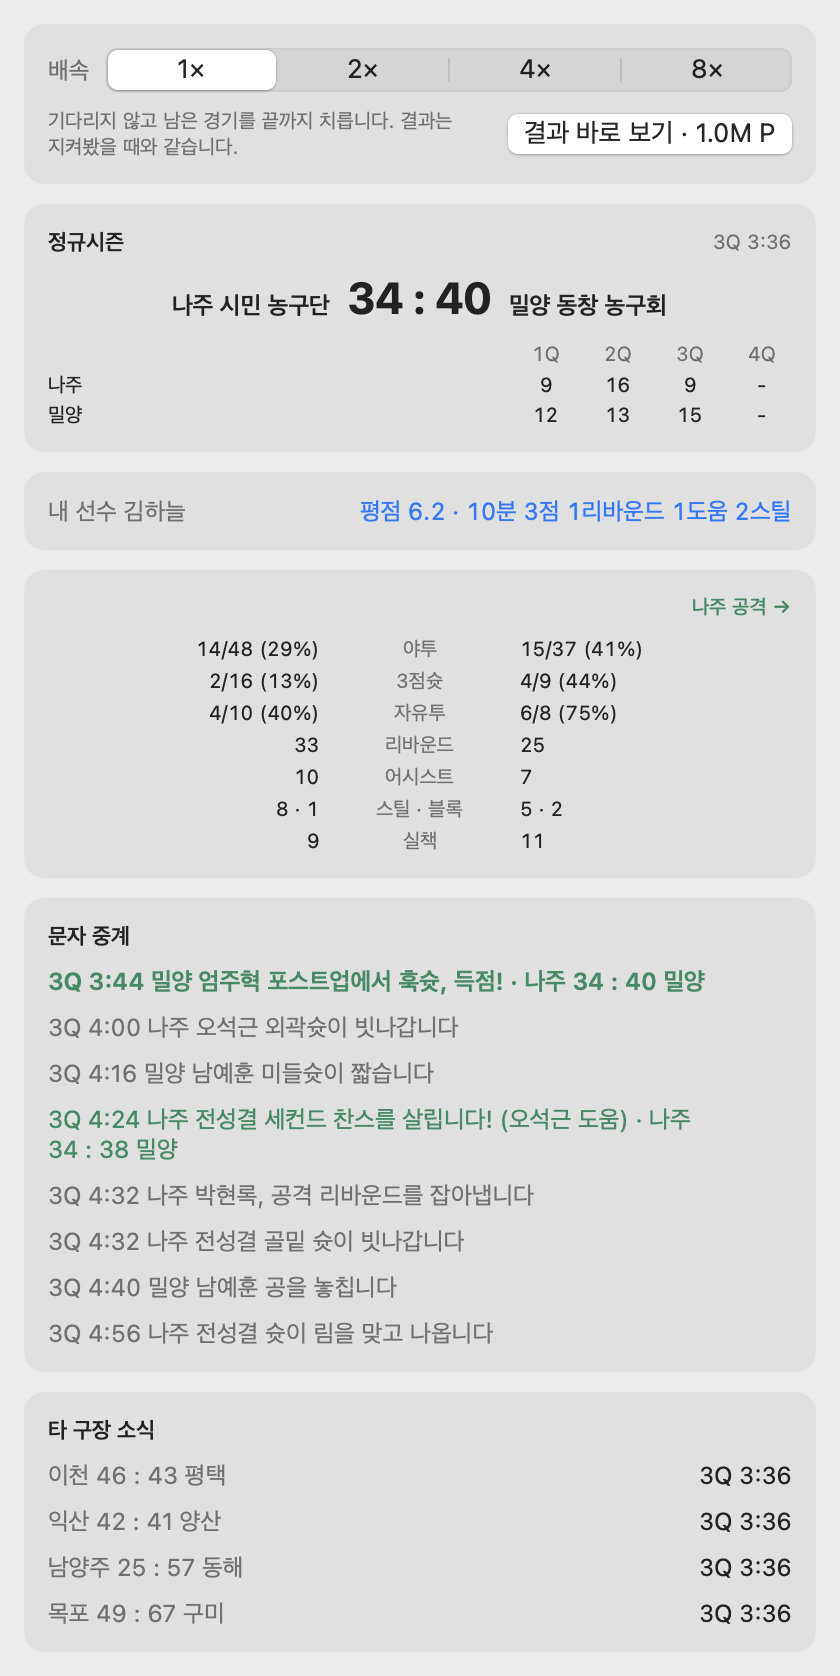
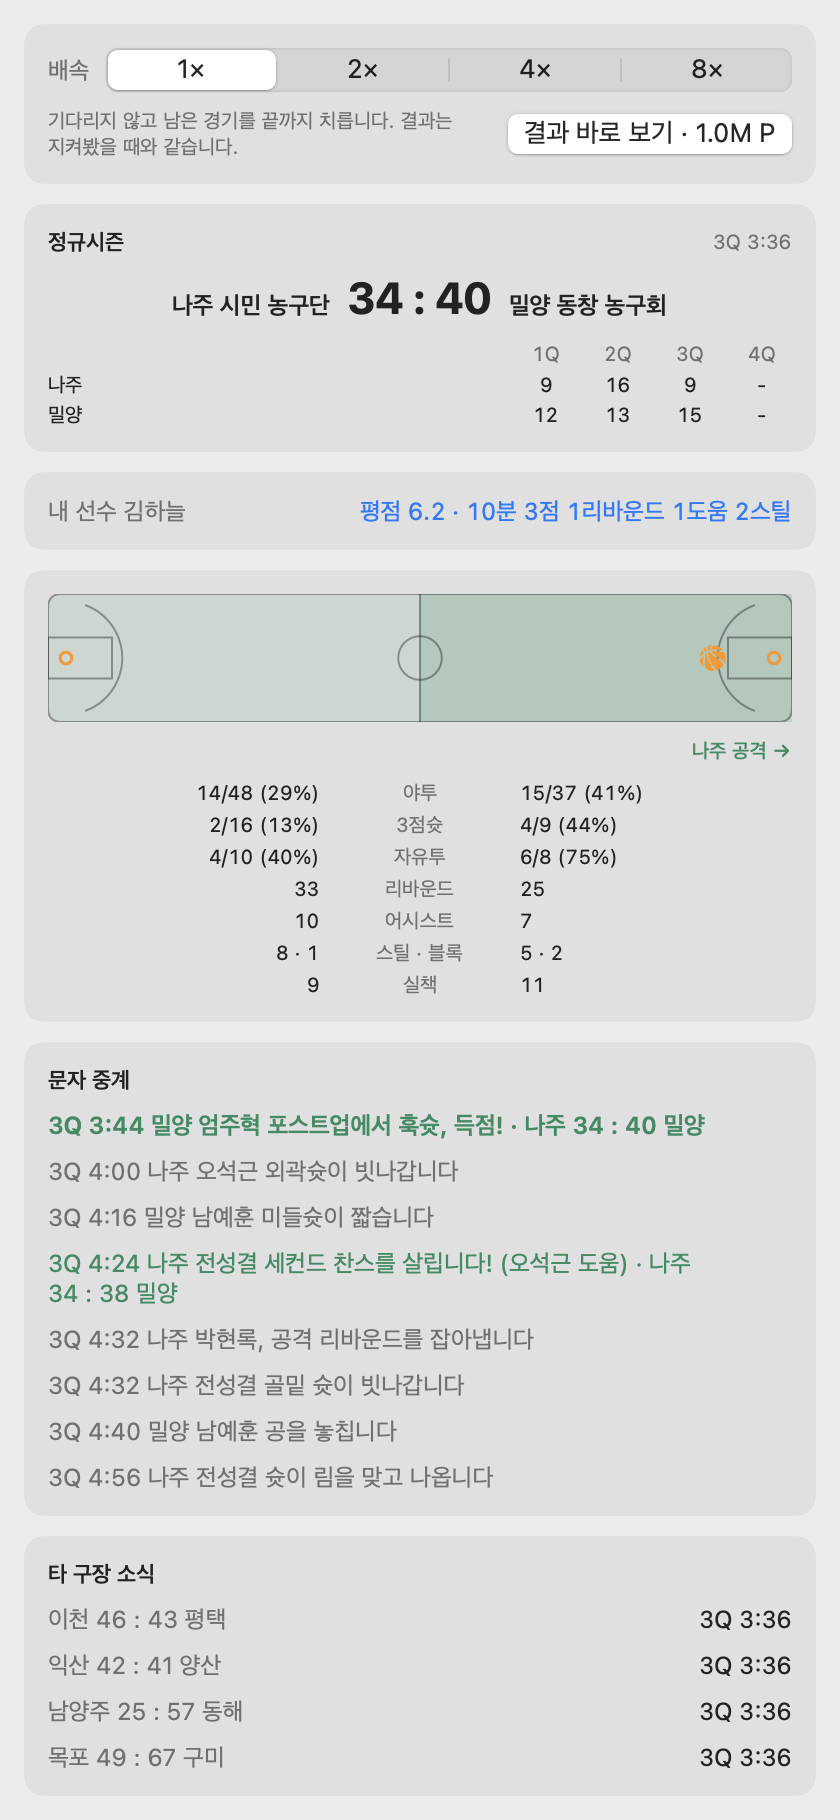
Basketball: own menu-bar drills (dribble, jump shot) and a court in the live view

diff --git a/Sources/TokenBaseball/Views/Match/BasketballLiveView.swift b/Sources/TokenBaseball/Views/Match/BasketballLiveView.swift
@@ -24,8 +24,10 @@ struct BasketballLiveView: View {
                 MyPlayerLiveCard(name: myName, performance: myPerformance, waiting: "벤치에서 대기 중")
             }
             Card {
+                let myBall = state.homeHasBall == live.userIsHome
+                BasketballCourt(attackingRight: myBall, showsBall: !state.isFinished)
+                    .accessibilityLabel(state.isFinished ? "코트" : "공 위치: \(myBall ? mine.shortName : theirs.shortName) 공격")
                 if !state.isFinished {
-                    let myBall = state.homeHasBall == live.userIsHome
                     AttackDirectionLabel(myBall: myBall, mine: mine.shortName, theirs: theirs.shortName)
                 }
                 let a = mine.totals, b = theirs.totals
@@ -76,5 +78,60 @@ struct BasketballLiveView: View {
 
     private func shots(_ made: Int, _ tried: Int) -> String {
         tried == 0 ? "0/0" : "\(made)/\(tried) (\(Int((Double(made) / Double(tried) * 100).rounded()))%)"
+    }
+}
+
+/// 농구 코트: 왼쪽 골대가 우리 골대, 오른쪽이 상대 골대. 공격하는 쪽 반코트를 밝히고 공을 그 앞에 둔다.
+struct BasketballCourt: View {
+    /// 공을 가진 팀이 오른쪽 골대로 공격하는지 (내 팀이 공격 중이면 true).
+    let attackingRight: Bool
+    var showsBall = true
+
+    var body: some View {
+        Canvas { context, size in
+            let w = size.width, h = size.height
+            let line = GraphicsContext.Shading.color(.secondary.opacity(0.7))
+            let floor = Path(roundedRect: CGRect(origin: .zero, size: size), cornerRadius: 6)
+            context.fill(floor, with: .color(Theme.win.opacity(0.12)))
+            // 공격하는 반코트를 밝힌다.
+            if showsBall {
+                let half = CGRect(x: attackingRight ? w / 2 : 0, y: 0, width: w / 2, height: h)
+                context.fill(Path(half), with: .color(Theme.win.opacity(0.18)))
+            }
+            context.stroke(floor, with: line, lineWidth: 1)
+            // 하프라인과 센터 서클
+            var middle = Path()
+            middle.move(to: CGPoint(x: w / 2, y: 0))
+            middle.addLine(to: CGPoint(x: w / 2, y: h))
+            context.stroke(middle, with: line, lineWidth: 1)
+            let circle = h * 0.17
+            context.stroke(Path(ellipseIn: CGRect(x: w / 2 - circle, y: h / 2 - circle, width: circle * 2, height: circle * 2)),
+                           with: line, lineWidth: 1)
+            // 양쪽 골밑: 페인트 존, 3점 라인, 림
+            for right in [false, true] {
+                let edge: CGFloat = right ? w : 0
+                let toward: CGFloat = right ? -1 : 1
+                let hoop = CGPoint(x: edge + toward * h * 0.14, y: h / 2)
+                let paintWidth = h * 0.5, paintHeight = h * 0.32
+                let paint = CGRect(x: right ? w - paintWidth : 0, y: h / 2 - paintHeight / 2, width: paintWidth, height: paintHeight)
+                context.stroke(Path(paint), with: line, lineWidth: 1)
+                var arc = Path()
+                arc.addArc(center: hoop, radius: h * 0.44,
+                           startAngle: .degrees(right ? 110 : -70), endAngle: .degrees(right ? 250 : 70), clockwise: false)
+                context.stroke(arc, with: line, lineWidth: 1)
+                let rim = h * 0.045
+                context.stroke(Path(ellipseIn: CGRect(x: hoop.x - rim, y: hoop.y - rim, width: rim * 2, height: rim * 2)),
+                               with: .color(.orange), lineWidth: 1.5)
+            }
+            // 공: 공격하는 골대 앞, 3점 라인 근처.
+            if showsBall {
+                let x = attackingRight ? w - h * 0.62 : h * 0.62
+                let ball = context.resolve(Image(systemName: "basketball.fill"))
+                context.draw(ball, at: CGPoint(x: x, y: h / 2), anchor: .center)
+            }
+        }
+        .foregroundStyle(.orange)
+        .frame(height: 64)
+        .accessibilityElement(children: .ignore)
     }
 }

diff --git a/Sources/TokenBaseball/Sprites/Sprites.swift b/Sources/TokenBaseball/Sprites/Sprites.swift
@@ -6,10 +6,74 @@ enum Sprites {
         case batting, pitching, fielding, running, weights, rest
         // 축구
         case dribbling, shooting, keeping
+        // 농구
+        case bouncing, jumpShot
     }
 
     /// 12×12 격자. `#`이 칠해지는 칸이다.
     static let frames: [Drill: [[String]]] = [
+        // 농구 드리블: 공을 손에서 바닥으로 튀긴다.
+        .bouncing: [
+            [
+                "....##......",
+                "....##......",
+                "...####.....",
+                "..#.##.#....",
+                "..#.##..#...",
+                "....##...##.",
+                "....##...##.",
+                "...#..#.....",
+                "...#..#.....",
+                "..##..##....",
+                "............",
+                "............",
+            ],
+            [
+                "....##......",
+                "....##......",
+                "...####.....",
+                "..#.##.#....",
+                "..#.##..#...",
+                "....##...#..",
+                "....##......",
+                "...#..#.....",
+                "...#..#.....",
+                "..##..##.##.",
+                ".........##.",
+                "............",
+            ],
+        ],
+        // 점프슛: 무릎을 굽혀 공을 머리 위로 들었다가, 뛰어올라 림으로 던진다.
+        .jumpShot: [
+            [
+                "....##......",
+                "....##......",
+                "...#..#.####",
+                "...#..#..##.",
+                "....##......",
+                "....##......",
+                "...####.....",
+                "....##......",
+                "...#..#.....",
+                "..#....#....",
+                "..##..##....",
+                "............",
+            ],
+            [
+                "......##....",
+                "......##....",
+                "...#.#..####",
+                "...#.#...##.",
+                "....##......",
+                "....##......",
+                "...####.....",
+                "....##......",
+                "...#..#.....",
+                "...#..#.....",
+                "............",
+                "............",
+            ],
+        ],
         .dribbling: [
             [
                 "....##......",

diff --git a/Sources/TokenBaseball/Dev/Snapshot.swift b/Sources/TokenBaseball/Dev/Snapshot.swift
@@ -56,6 +56,7 @@ enum Snapshot {
                 BallIcon(sport: .baseball)
                 BallIcon(sport: .football)
                 BallIcon(sport: .basketball)
+                BallIcon(sport: .basketball)
                 BallIcon(sport: .basketball, size: 36)
                 ChargeMarks(sport: position.sport, charges: 2)
             }
@@ -109,6 +110,7 @@ enum Snapshot {
                 BallIcon(sport: .football, size: 36)
                 BallIcon(sport: .baseball)
                 BallIcon(sport: .football)
+                BallIcon(sport: .basketball)
                 ChargeMarks(sport: sport, charges: 2)
                 ForEach(Array(Sprites.Drill.allCases.enumerated()), id: \.offset) { _, drill in
                     Image(nsImage: Sprites.image(drill, frame: 0))

diff --git a/Sources/TokenBaseball/Model/AppModel+MenuBar.swift b/Sources/TokenBaseball/Model/AppModel+MenuBar.swift
@@ -57,7 +57,7 @@ extension AppModel {
             let mine: [Sprites.Drill] = switch me.position.sport {
             case .baseball: me.isPitcher ? [.pitching, .running, .weights] : [.batting, .fielding, .running, .weights]
             case .football: me.position == .goalkeeper ? [.keeping, .running, .weights] : [.dribbling, .shooting, .running, .weights]
-            case .basketball: [.dribbling, .running, .weights]
+            case .basketball: [.bouncing, .jumpShot, .running, .weights]
             }
             return mine[(Int(now.timeIntervalSince1970) / 8) % mine.count]
         }

diff --git a/Sources/TokenBaseball/Support/Sport+Display.swift b/Sources/TokenBaseball/Support/Sport+Display.swift
@@ -67,7 +67,7 @@ extension Sport {
         switch self {
         case .baseball: .batting
         case .football: .shooting
-        case .basketball: .dribbling
+        case .basketball: .bouncing
         }
     }
 }

diff --git a/docs/guide/basketball-player.md b/docs/guide/basketball-player.md
@@ -132,7 +132,9 @@
 <img src="../images/basketball-player/live.png" alt="농구 선수 모드의 경기 중계" width="380">
 
 - 맨 위에 쿼터별 점수, 그 아래에 **내 선수 줄**(평점, 뛴 시간, 득점, 리바운드, 도움, 스틸)이 실시간으로 바뀐다.
-- 가운데에는 두 팀의 기록(야투, 3점슛, 자유투, 리바운드, 어시스트, 스틸·블록, 실책)이 나란히 나오고, 어느 팀이 공격 중인지 화살표로 나온다.
+- **코트**: 왼쪽이 우리 골대, 오른쪽이 상대 골대다. 공격하는 쪽 반코트가 밝아지고 그 골대 앞에 공이 있다.
+- 그 아래에 두 팀의 기록(야투, 3점슛, 자유투, 리바운드, 어시스트, 스틸·블록, 실책)이 나란히 나오고, 어느 팀이 공격 중인지 화살표로 나온다.
+- **상단바**: 평소에는 내 선수가 드리블, 점프슛, 달리기, 웨이트를 번갈아 하고, 경기 중에는 드리블한다.
 - 문자 중계에서 득점 장면은 초록색, 내 선수가 나온 장면은 파란색이다.
 - 득점이 워낙 잦아서 농구는 득점마다 중계를 멈추거나 알림을 보내지 않는다.
 - 10분 4쿼터이고, 동점이면 5분씩 연장한다. 무승부가 없다.
@@ -216,4 +218,4 @@
 
 ## 아직 없는 것
 
-농구 구단 경영 모드, 작전(지역 방어, 속공 등), 팀 반칙 보너스와 공격 반칙, 부상, 올스타전, 농구 전용 상단바 훈련 애니메이션은 아직 없다.
+농구 구단 경영 모드, 작전(지역 방어, 속공 등), 팀 반칙 보너스와 공격 반칙, 부상, 올스타전은 아직 없다.

diff --git a/docs/11-basketball.md b/docs/11-basketball.md
@@ -131,7 +131,7 @@
 | 탭 | 달라지는 것 |
 |---|---|
 | 홈 | 다음 경기에 선발인지, 벤치면 몇 분쯤 뛰는지 |
-| 경기 | 플레이 스타일. 중계에는 쿼터별 점수, 팀 기록(야투·3점슛·자유투·리바운드·어시스트·스틸·블록·실책), 내 선수 줄 |
+| 경기 | 플레이 스타일. 중계에는 쿼터별 점수, 공격하는 쪽 반코트와 공을 보여 주는 코트 그림, 팀 기록(야투·3점슛·자유투·리바운드·어시스트·스틸·블록·실책), 내 선수 줄 |
 | 커리어 | 시즌과 통산 기록이 경기당 평균으로 나온다. "주전 경쟁"에는 같은 포지션 동료가 나온다 |
 
 저장 파일은 `save-basketball-player.json`이다.
@@ -141,4 +141,3 @@
 - 농구 구단 경영 모드
 - 작전(지역 방어, 속공 등)과 팀 반칙 보너스, 공격 반칙
 - 부상, 국가대표, 올스타전
-- 농구 전용 상단바 훈련 애니메이션 (지금은 드리블·달리기·웨이트를 쓴다)
